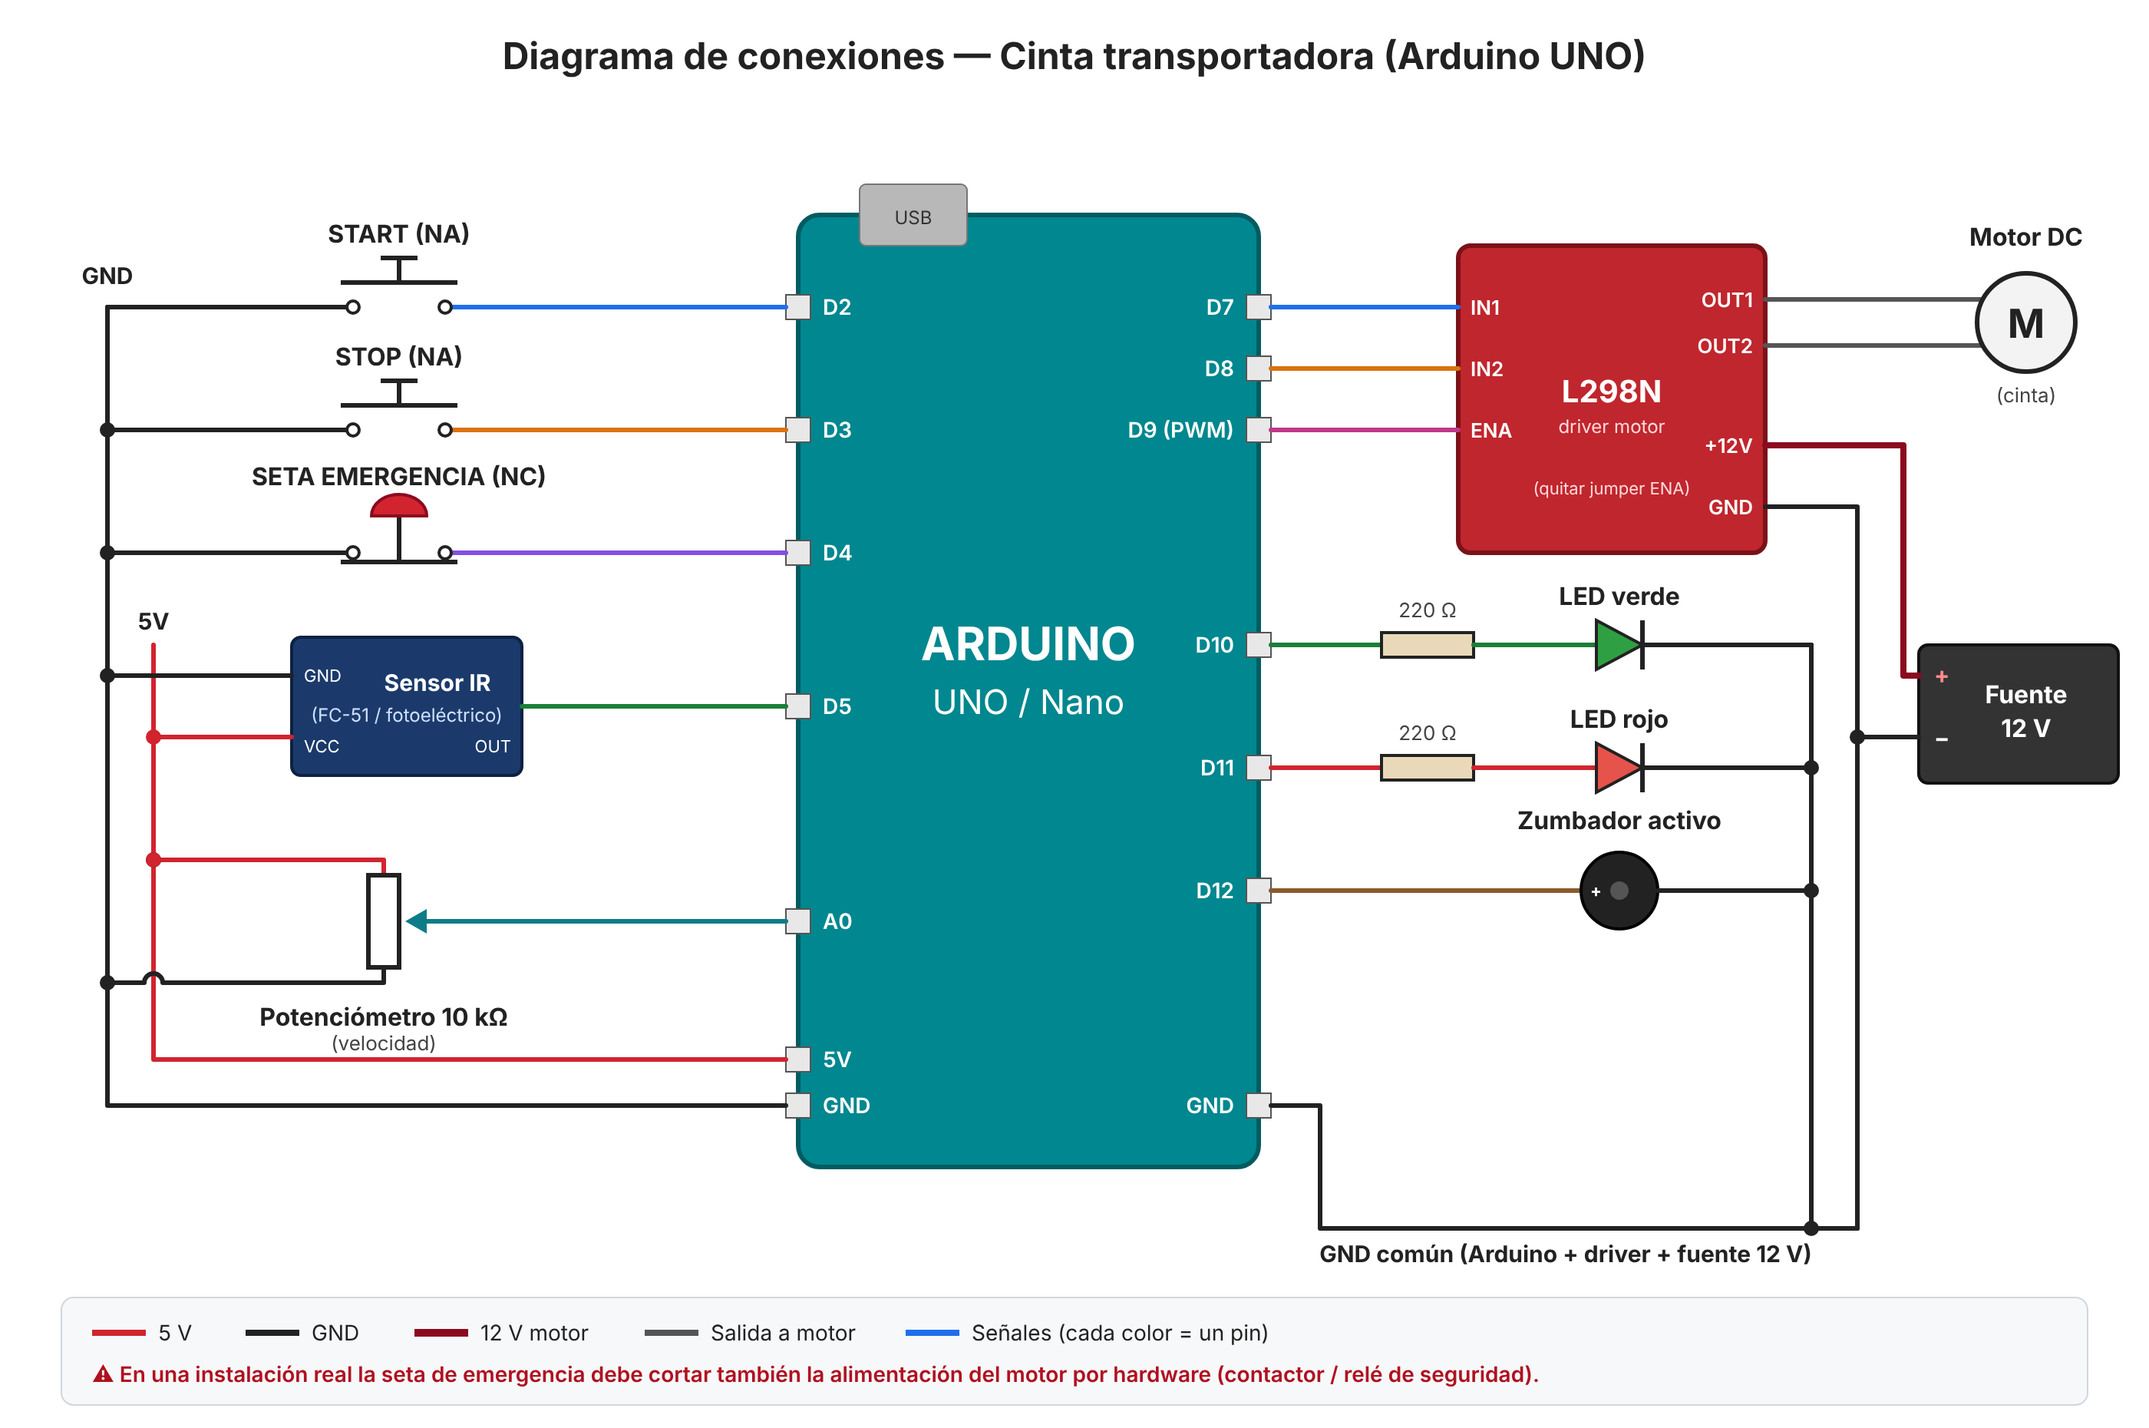
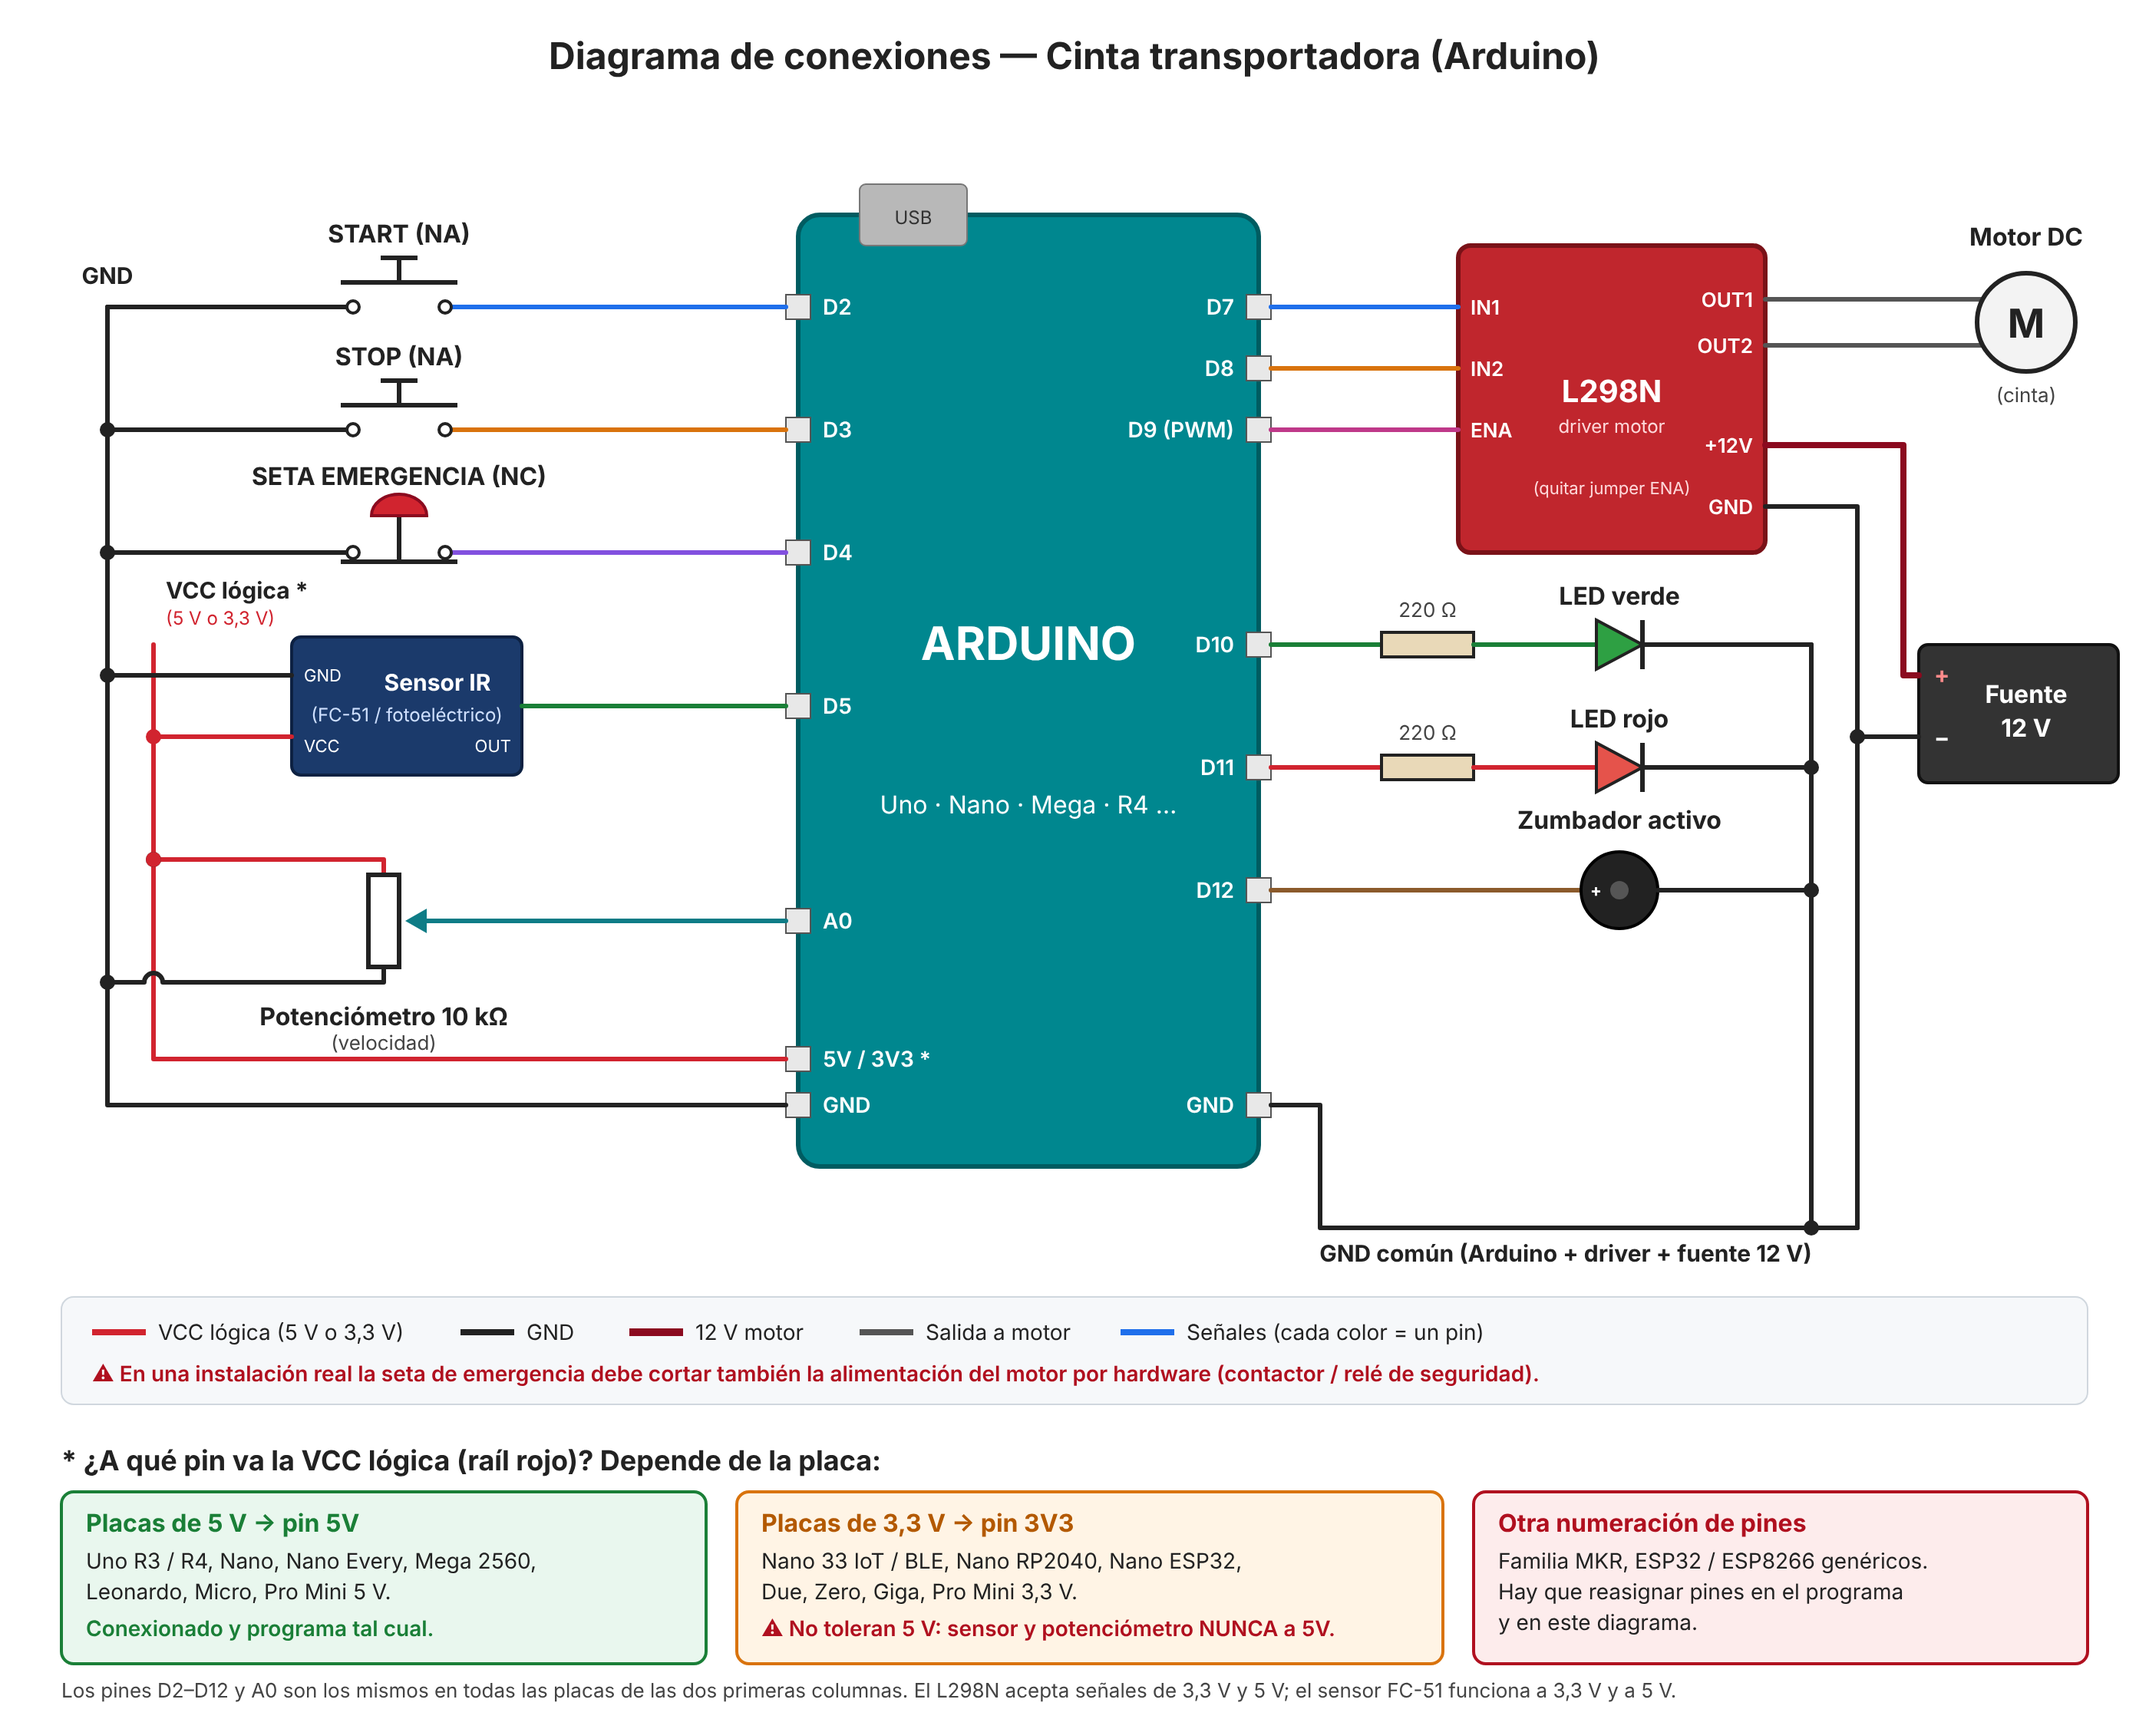
Diagrama de conexiones válido para placas de 5 V y 3,3 V
Claude-Session: https://claude.ai/code/session_01YcUHBu5tichPeAoKUSWo3Q

diff --git a/cinta_transportadora/README.md b/cinta_transportadora/README.md
@@ -13,14 +13,14 @@ Sketch: [`cinta_transportadora.ino`](cinta_transportadora.ino) (Arduino Uno / Na
 | Pulsador START (NA)            | D2          | Entre el pin y GND (usa pull-up interno) |
 | Pulsador STOP (NA)             | D3          | Entre el pin y GND |
 | Seta de emergencia (NC)        | D4          | Contacto NC entre el pin y GND. Si se pulsa **o se corta el cable**, para |
-| Sensor de presencia (IR)       | D5          | Salida activa en LOW (p. ej. módulo FC-51 o fotoeléctrico NPN) |
+| Sensor de presencia (IR)       | D5          | Salida activa en LOW (p. ej. FC-51). VCC a 5V o 3V3 según la placa |
 | Driver motor IN1               | D7          | |
 | Driver motor IN2               | D8          | |
 | Driver motor ENA (PWM)         | D9          | Quitar el jumper ENA del L298N |
 | LED verde (marcha)             | D10         | Con resistencia de 220 Ω |
 | LED rojo (parada/fallo)        | D11         | Con resistencia de 220 Ω |
 | Zumbador                       | D12         | Zumbador activo |
-| Potenciómetro (velocidad)      | A0          | Extremos a 5V y GND, cursor a A0 |
+| Potenciómetro (velocidad)      | A0          | Extremos a VCC lógica (5V o 3V3, ver compatibilidad) y GND, cursor a A0 |
 
 **Alimentación:** el motor se alimenta desde la fuente del driver (12 V/24 V), nunca
 desde el Arduino. Une siempre el GND de la fuente del motor con el GND del Arduino.
